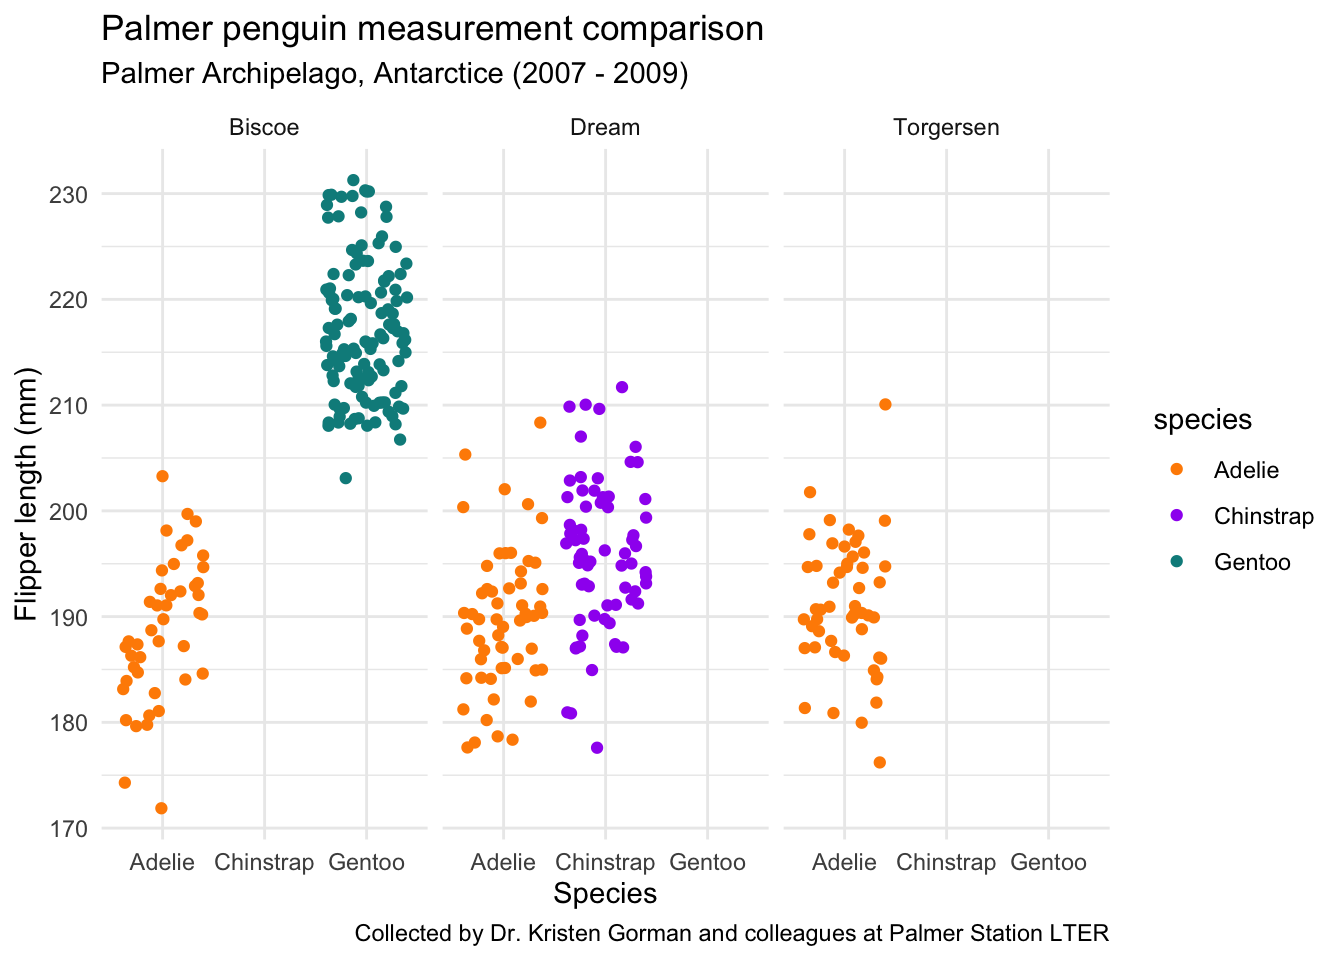
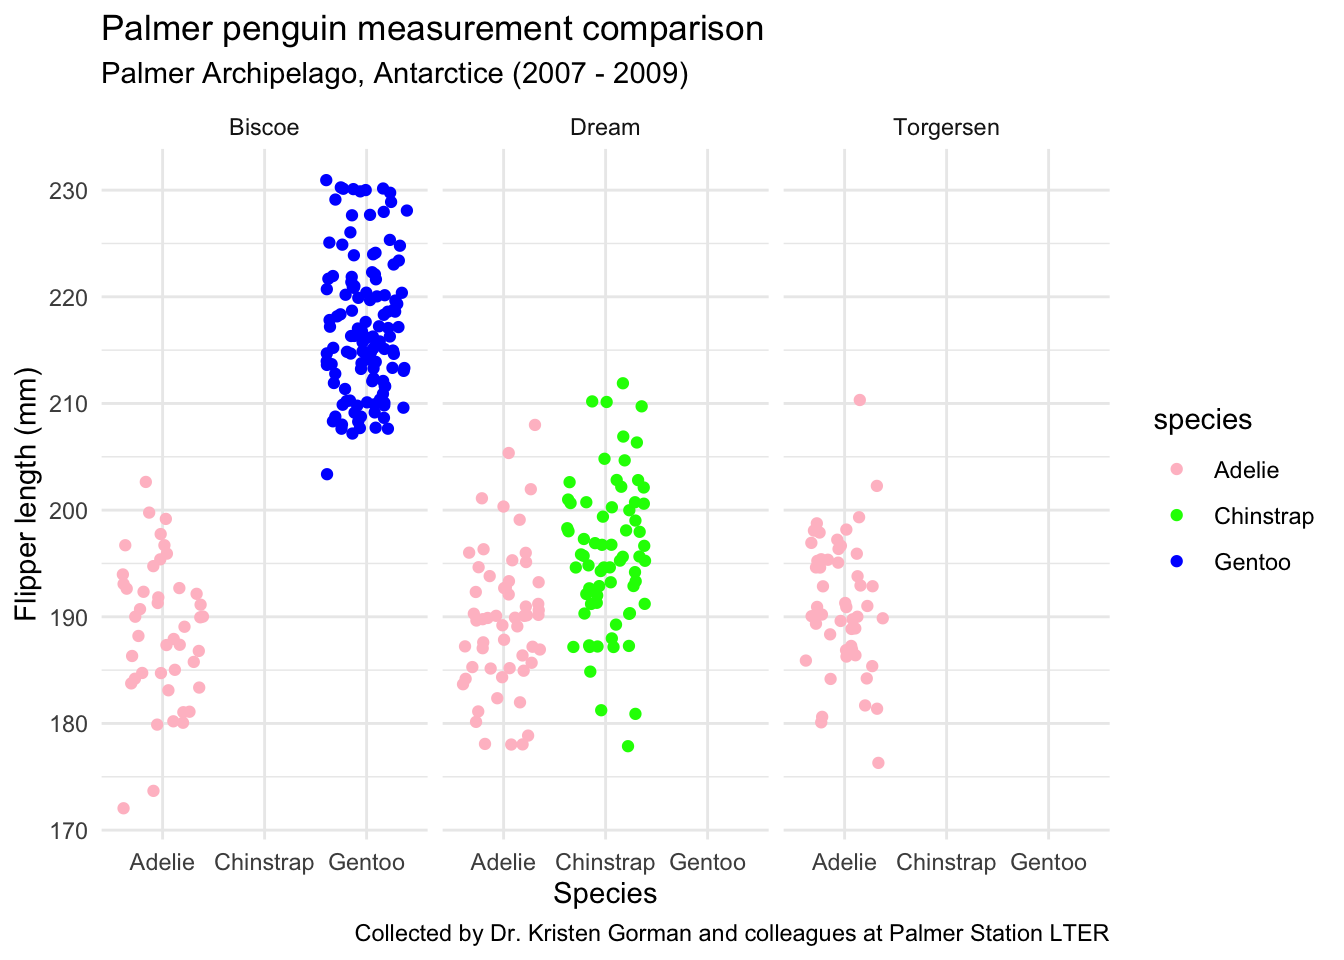
Changed plot colors for the second plot only. Colors were changed to {pink, green, and blue} respectively.

diff --git a/eds212_day2_activities.html b/eds212_day2_activities.html
@@ -181,7 +181,7 @@ pre > code.sourceCode > span > a:first-child::before { text-decoration: underlin
 <div class="sourceCode cell-code" id="cb10"><pre class="sourceCode r code-with-copy"><code class="sourceCode r"><span id="cb10-1"><a href="#cb10-1" aria-hidden="true" tabindex="-1"></a><span class="co"># create jitter plot for flipper length by species </span></span>
 <span id="cb10-2"><a href="#cb10-2" aria-hidden="true" tabindex="-1"></a><span class="fu">ggplot</span>(<span class="at">data =</span> penguins, <span class="fu">aes</span>(<span class="at">x =</span> species, <span class="at">y =</span> flipper_length_mm)) <span class="sc">+</span></span>
 <span id="cb10-3"><a href="#cb10-3" aria-hidden="true" tabindex="-1"></a>  <span class="fu">geom_jitter</span>(<span class="fu">aes</span>(<span class="at">color =</span> species)) <span class="sc">+</span></span>
-<span id="cb10-4"><a href="#cb10-4" aria-hidden="true" tabindex="-1"></a>  <span class="fu">scale_color_manual</span>(<span class="at">values =</span> <span class="fu">c</span>(<span class="st">"darkorange"</span>,<span class="st">"purple"</span>,<span class="st">"cyan4"</span>)) <span class="sc">+</span></span>
+<span id="cb10-4"><a href="#cb10-4" aria-hidden="true" tabindex="-1"></a>  <span class="fu">scale_color_manual</span>(<span class="at">values =</span> <span class="fu">c</span>(<span class="st">"pink"</span>,<span class="st">"green"</span>,<span class="st">"blue"</span>)) <span class="sc">+</span></span>
 <span id="cb10-5"><a href="#cb10-5" aria-hidden="true" tabindex="-1"></a>  <span class="fu">labs</span>(<span class="at">x =</span> <span class="st">"Species"</span>,</span>
 <span id="cb10-6"><a href="#cb10-6" aria-hidden="true" tabindex="-1"></a>       <span class="at">y =</span> <span class="st">"Flipper length (mm)"</span>,</span>
 <span id="cb10-7"><a href="#cb10-7" aria-hidden="true" tabindex="-1"></a>       <span class="at">title =</span> <span class="st">"Palmer penguin measurement comparison"</span>,</span>
